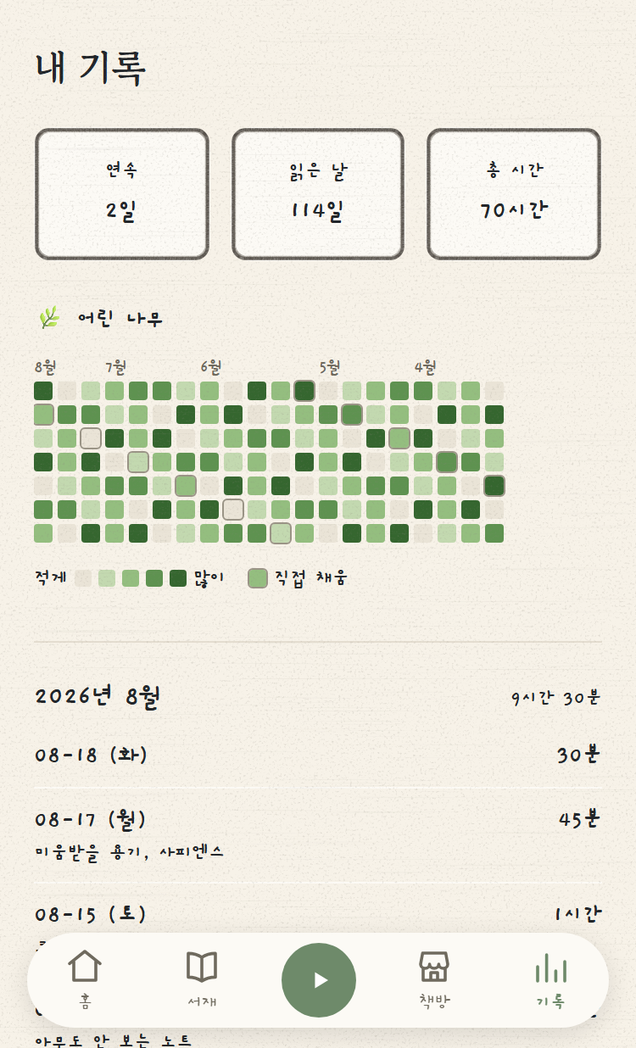
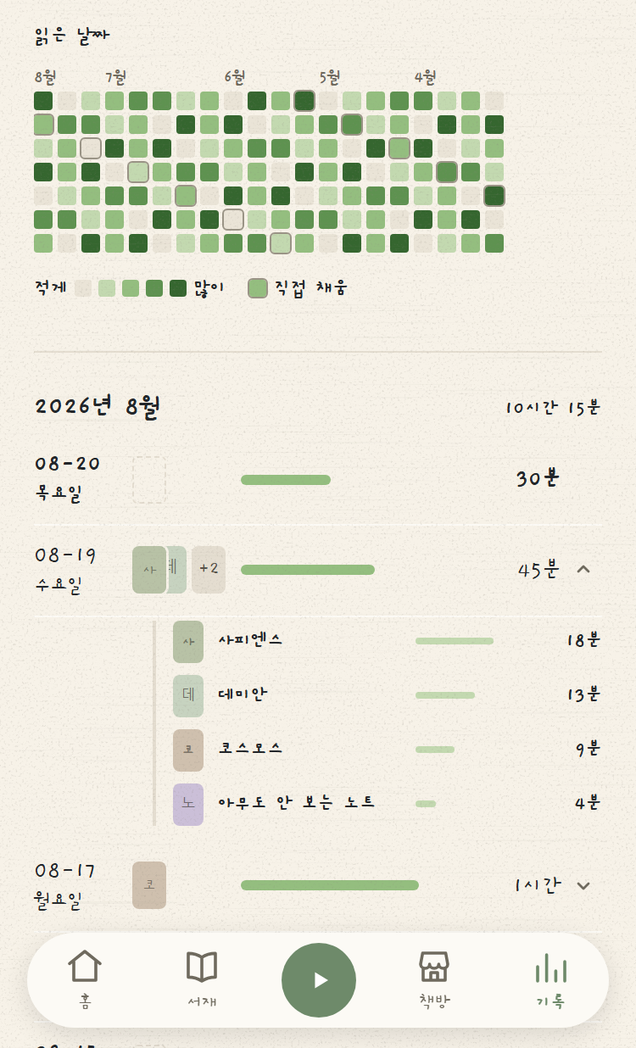
chore(미니앱): 출시 직전 스토어 스크린샷을 다시 찍는다
08-19 출시분 이후 화면 셋이 바뀌어 콘솔에 올라가 있는 그림과 앱이 어긋나 있었다.
04-history에 표지 더미와 펼침(#880)이, 03-library에 읽은 시간·공개 칩(#879)이,
02-feed에 소식 표지·「다 읽음」 배지와 「함께 읽는 사람」 탭(#870·#878)이 없었다.
옛 그림이 콘솔에 남으면 「실제 앱과 다르다」가 심사에 얹힐 자리다.

shoot.mjs로 6장을 다시 찍었다. 01-home과 05-goal은 바이트째 그대로였다 — 그 두
화면이 안 바뀌었다는 증거다. 독서등과 「읽는 중」 카드는 측정 중에만 서므로 대기
상태의 홈은 예전과 같다.

04-history는 구도도 바꿨다. 최상단에서 찍으면 연속·통계 카드가 위를 다 먹어 이
화면의 새 얼굴인 표지 더미가 탭바 아래로 밀려 한 줄도 안 보였다(실측). 잔디 제목을
기준선으로 잡아 잔디와 날짜 줄을 한 컷에 담고, 여러 권 읽은 첫 날을 펼쳐 둔다 —
접힌 더미만으론 「겹쳐 있다」까지만 보이고 요점인 책별로 얼마나 읽었나가 그림에 없다.

README에 목 서버 포트를 넘기는 법도 적었다. 이 레포의 launch.json은 5174가 아니라
5300을 쓴다.

Session-Model: claude-opus-5

diff --git a/claude-docs/changelog.md b/claude-docs/changelog.md
@@ -751,3 +751,4 @@
 | 2026-08-20 | **feat: 화면 밀도 손질 3건 — 텍스트만 있던 자리에 형태를 준다** — 「UI가 텍스트로만 이루어져 단순하다 / 강조될 것이 안 강조된다 / 한곳에 과하게 모여 있다」는 지적(사용자)에서 출발해 시안을 먼저 확정한 뒤 구현했다. 화면별 `img`·`svg`를 실측하니 **기록·책방이 0/0**이었다 — 표지·잔디·연필 테두리를 다 만들어 놓고 **그 자리에만 안 데려다 놓은 것**이라, 새 시각 언어를 만들지 않고 있는 것을 옮겼다. ⓐ **소식 피드에 표지와 사건 배지** — 서버 `SocialEvent`에 `coverUrl`을 실어(세 종류 모두) 문장을 읽기 전에 「무슨 책」이 보이게 했다. 배지 문구는 **서재가 이미 쓰는 말**(「다 읽음」·「읽는 중」)을 그대로 쓴다. ⚠ **완독만 채운 배지**다 — 전에는 7px 색점이 종류를 말해 가장 축하할 사건이 「읽기 시작」과 같은 무게였다. 발췌는 세로선 안으로 들여 세 줄을 한 덩어리로 묶었다. ⓑ **기록의 성장 단계를 카드로** — 유일한 보상이 스탯과 잔디 사이 한 줄로 끼어 있었다. 카드로 올리고 **연속 일수를 그 안에 들여** 「연속 N일째 → 지금 단계 → 다음 단계까지」 한 흐름으로 묶었다(연속이 단계의 정본인데 그 관계가 화면에 없었다). 사다리는 서버 `GrowthStage`가 `minStreak`·`next()`로 한 곳에서만 갖는다. ⓒ **기록 날짜 행에 표지와 막대** — 제목을 쉼표로 이어 붙이고 `nowrap`으로 잘라 **두 권만 돼도** 「미움받을 용기, 사피…」가 됐다. 표지 칸으로 옮겨 권수가 자리로 보이고 넘치면 `+N`으로 밝혀서 뺀다. 막대 기준은 **그 달의 최대치**다. 서버 계약은 안 건드렸다 — 자리 표지가 제목색 첫 글자라 표지 주소가 필요 없다. ⓓ **덤으로 잡은 것 둘**: 조사 버그(「나무이 돼요」)를 테스트가 잡아 종성 판정을 `format.ts` 한 곳으로 모았고, 목이 **서버에 없는 단계**(`SAPLING`·「어린 나무」)를 그리던 것을 실제 사다리로 바로잡았다. TDD RED→GREEN — 서버 6건 · 미니앱 17건(각 항목마다 실패를 먼저 확인: 미니앱 3 → 3 → 12, 서버는 컴파일 실패·단언 실패). 서버 전체 그린 · 미니앱 834/834 · tsc·build 클린. 목 모드 실측으로 전 경로 확인(피드 3줄에 표지 3·배지 3, 성장 카드 「연속 2일째 / 새싹 / 2일 더 읽으면 꽃이 돼요」, 날짜 행 막대 50·75·100·25%가 월 최대 기준, 가로 스크롤 없음). ⚠ **감수한 것**: 스크린샷은 이 세션 내내 CDP가 죽어(T-184) 판정을 전부 DOM 계측으로 했다 — 눈으로 본 그림은 없다. |
 | 2026-08-20 | **feat: 화면 밀도 손질 2건(후속) — 요약을 앞으로, 상태를 칩으로** — 앞 3건에서 「시안엔 올렸지만 안 한 후보」로 남겨 둔 둘을 마저 했다(사용자 요청). ⓐ **책방 — 태그가 서술보다 먼저다.** 성향 서술은 서버가 써 준 다섯 줄짜리 문단이고 태그(소설·인문·완독형)는 **그 요약**인데, 문단이 앞에 있어 「이 사람이 어떤 독자인가」를 스크롤해야 알 수 있었다(요약이 원문 뒤에 있는 꼴). 순서를 뒤집고, 문단은 **카드에 담아** 사용자가 쓴 소개가 아니라 **분석 결과**라는 출처를 형태로 드러냈다 — 「더보기」도 그 카드 안 꼬리가 된다. ⓑ **서재 — 읽은 시간·공개 여부를 칩으로 뗐다.** 전에는 저자 다음 줄에 「2시간 · 공개」로 붙어 같은 회색 글자 두 줄이라 **「누가 썼나」와 「내 상태」가 한 덩어리로 뭉쳤고**, 특히 **공개 여부는 이 화면에서 가장 중요한 토글**인데 저자 이름과 같은 무게였다. 저자는 글자, 상태는 형태로 갈렸다. 시간은 「2시간 읽음」(칩 하나만 떼어 놓고 보면 무엇의 2시간인지 모른다), 공개는 세이지로 켜지고 비공개는 외곽선으로 눌린다(색이 곧 「누구에게 보이는가」). 덤으로 저자를 줄바꿈으로 분리하던 `pre-line` 수법이 필요 없어졌다 — 긴 알라딘 저자 문자열이 되접혀도 칩은 **다른 요소**라 그 사이에 끼어들 수가 없다(전에는 한 문자열이라 가능했고 그게 실기기 버그였다). **새 색·서체는 0** — 칩 세 톤이 앞 PR의 소식 배지와 같은 값이다. TDD RED→GREEN(9건 실패 확인 후 구현) · 미니앱 840/840 · tsc·build 클린. 목 모드 실측: 서재는 저자 한 줄 + 칩 2개이고 옛 「· 공개」가 사라졌으며 비공개 책은 투명 배경 + 외곽선으로 그려진다, 책방은 태그가 서술보다 앞서고 서술 카드에 연필 테두리가 걸린다. ⚠ no-emoji 가드가 JSX 주석 안의 경고 이모지를 잡아 걷어 냈다 — 그 자리는 스캔 대상이다(`//` 주석과 다르다). |
 | 2026-08-20 | **feat: 기록 — 하루에 읽은 책을 더미로 쌓고, 눌러 펼치면 책별 시간** — 하루에 여러 권 읽은 날이 표지를 **옆으로 나열**하기만 해, 네 권이면 세 장 + 「+1」로 늘어서고 **어느 책을 오래 읽었는지는 어디에도 없었다**(그날 총합 하나뿐). 사용자 요청으로 겹쳐 쌓고 눌러 펼치게 했다. 그러려면 서버가 책별 시간을 줘야 해서 `DailyReadingRecord.bookTitles: List<String>`을 `books: List<BookRead>`(제목·표지주소·그 책만 읽은 초, **오래 읽은 순**)로 바꿨다 — `left join fetch s.book`이 이미 있어 **추가 쿼리는 0**이고, 같은 책의 여러 세션은 한 줄로 합산하며 동률이면 안정 정렬이 먼저 편 책을 앞에 남긴다. **표지 주소가 같이 오면서 기록의 첫 글자 타일이 진짜 표지**가 됐다(홈 소식과 어긋나 있던 자리). 펼칠 수 있는 기준은 「몇 권인가」가 아니라 **「펼치면 줄이 둘 이상인가」** — 한 권만 읽은 날은 펼쳐도 같은 숫자 하나라 손잡이를 안 단다. 책을 안 고르고 잰 시간은 `books`에 없고 총합에만 있어, 그냥 두면 **펼친 시간을 더해도 위 총합과 안 맞으므로** 차액을 회색 「책 안 고른 기록」 줄로 밝힌다. **막대 정렬을 구조로 고쳤다(사용자 지적)** — 전에는 flex라 표지 개수·시간 글자 폭이 행마다 달라 막대의 시작점·끝점이 둘 다 흔들렸고, 같은 퍼센트가 행마다 다른 픽셀로 그려져 **길이 비교 자체가 거짓**이었다. 고정 격자(`50px 56px 1fr 76px 16px`)로 못 박고 손잡이 칸은 못 펼치는 날에도 비워 남긴다. TDD RED→GREEN(서버는 컴파일 실패로, 미니앱은 9건 실패로 확인 후 구현) · 서버 전체 GREEN · 미니앱 854/854 · tsc·build 클린 · 웹 history 섬 번들 재생성. 목 모드 실측이 **결함 둘을 잡았다**: ⓐ 겹침 -13px에 권수 타일을 맨 위에 올렸더니 가운데 표지가 **아예 안 보였다**(겹침 -8px로 넓히고 권수 타일은 더미 밖으로) ⓑ `textAlign: 'right'`가 TDS `Text`에 **걸러져 조용히 죽었다**(T-198 — 감싸는 요소로 정렬). |
+| 2026-08-20 | **chore(미니앱): 출시 직전 스토어 스크린샷을 다시 찍는다** — 08-19 출시분 이후 화면 셋이 바뀌어 콘솔 그림과 앱이 어긋나 있었다: `04-history`에 표지 더미·펼침(#880)이, `03-library`에 읽은 시간·공개 칩(#879)이, `02-feed`에 소식 표지·「다 읽음」 배지와 「함께 읽는 사람」 탭(#870·#878)이 없었다. `shoot.mjs`로 6장을 다시 찍었고 `01-home`·`05-goal`은 **바이트째 그대로**였다(그 두 화면이 안 바뀌었다는 증거 — 독서등·「읽는 중」 카드는 측정 중에만 서므로 대기 홈은 예전과 같다). **`04-history`는 구도도 바꿨다** — 최상단에서 찍으면 통계 카드가 위를 다 먹어 새 얼굴인 표지 더미가 탭바 아래로 밀려 한 줄도 안 보였다. 잔디 제목을 기준선으로 잡고 **여러 권 읽은 첫 날을 펼쳐 둔다** — 접힌 더미만으론 「겹쳐 있다」까지만 보이고 책별 시간이 그림에 없다. |

diff --git a/plan.md b/plan.md
@@ -1731,6 +1731,18 @@ SNS 토대(팔로우·공개범위·프로필)가 깔려 있어 ②의 사용자
     웹은 카드 안에 접어 넣었다 — 패널(z-150) 위에 또 오버레이를 얹지 않는다(새 z 층 발명 금지).
   - ⚠ **감수한 것**: 명단과 카드의 개수가 차단 때문에 한둘 어긋날 수 있다(개수는 서버 집계 그대로 — 집계까지
     관계를 태우면 목록 응답이 비싸진다). 명단에 상한이 없다(팔로워 목록과 같은 처지 — 관객이 이미 좁다).
+- **스토어 스크린샷 재촬영 — 3장이 낡아 있었다** ✅ (2026-08-20, 출시 직전 점검) — 08-19 출시분 이후
+  화면 셋이 바뀌어 콘솔 그림과 앱이 어긋나 있었다: ① `04-history`에 **표지 더미·펼침**이 없고(#880)
+  ② `03-library`에 **읽은 시간·공개 칩**이 없고(#879) ③ `02-feed`에 소식 **표지·「다 읽음」 배지**와
+  **「함께 읽는 사람」 탭**이 없었다(#870·#878). `shoot.mjs`로 6장을 다시 찍었다.
+  - **`01-home`·`05-goal`은 바이트째 그대로였다** — 그 두 화면이 안 바뀌었다는 증거다. 독서등·「읽는 중」
+    카드는 **측정 중에만** 서므로 대기 상태의 홈은 예전과 같다.
+  - **`04-history`는 구도도 바꿨다** — 최상단에서 찍으면 연속·통계 카드가 위를 다 먹어 새 얼굴인 표지 더미가
+    **탭바 아래로 밀려 한 줄도 안 보였다**(실측). 잔디 제목을 기준선으로 잡아 잔디와 날짜 줄을 한 컷에 담고,
+    **여러 권 읽은 첫 날을 펼쳐 둔다** — 접힌 더미만으론 「겹쳐 있다」까지만 보이고 요점인 **책별로 얼마나
+    읽었나**가 그림에 없다.
+  - ⚠ **「출시 직전 점검」이 또 낡음을 잡았다**(4회째). 화면을 바꾼 PR에서 sweep 하는 규율은 네 번 다
+    안 먹혔다 — 점검을 심사 제출 절차의 고정 단계로 두는 판단이 옳았다.
 - **기록 — 하루에 읽은 책을 더미로 쌓고, 눌러 펼치면 책별 시간** ✅ 코드 완료 / ⬜ 실기기 확인 대기 (2026-08-20) —
   하루에 여러 권 읽은 날이 표지를 **옆으로 나열**하기만 해서, 네 권이면 세 장 + 「+1」로 늘어서고
   **어느 책을 오래 읽었는지는 어디에도 없었다**(그날 총합 하나뿐). 사용자 요청으로 겹쳐 쌓고 펼치게 했다.
